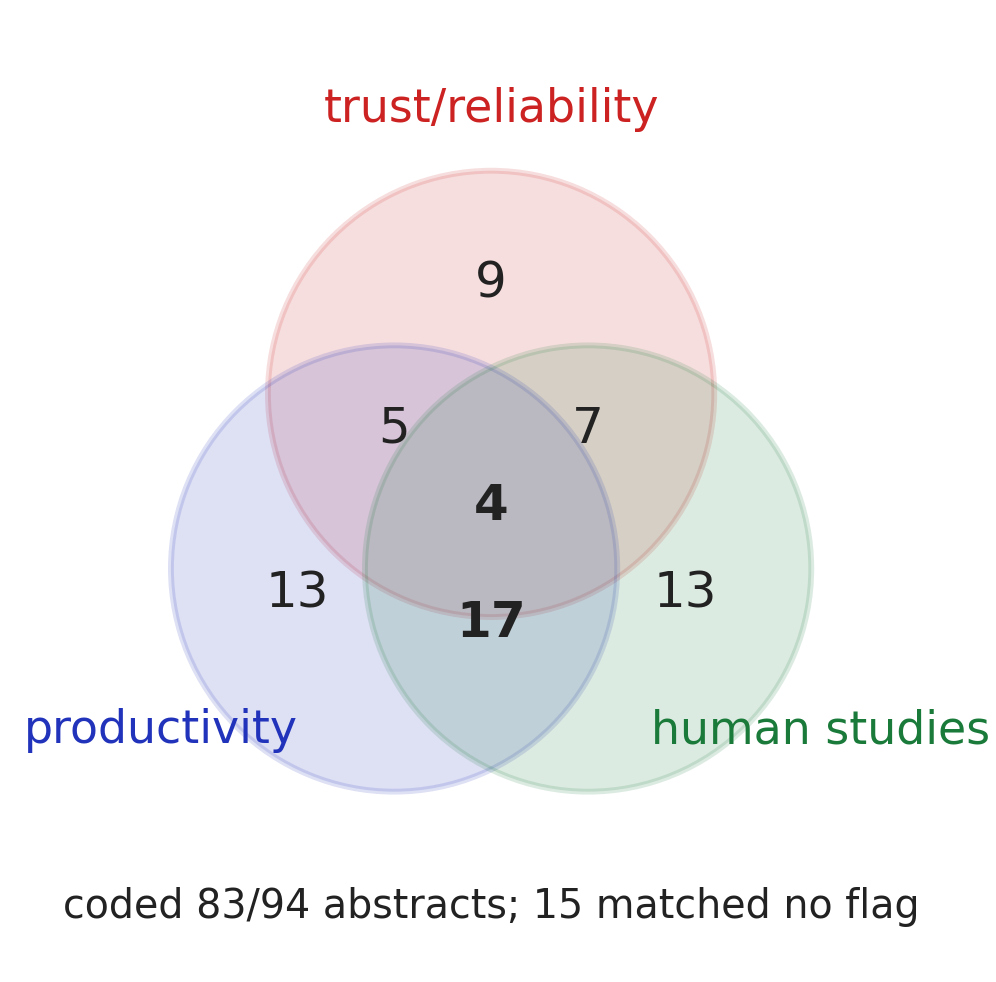
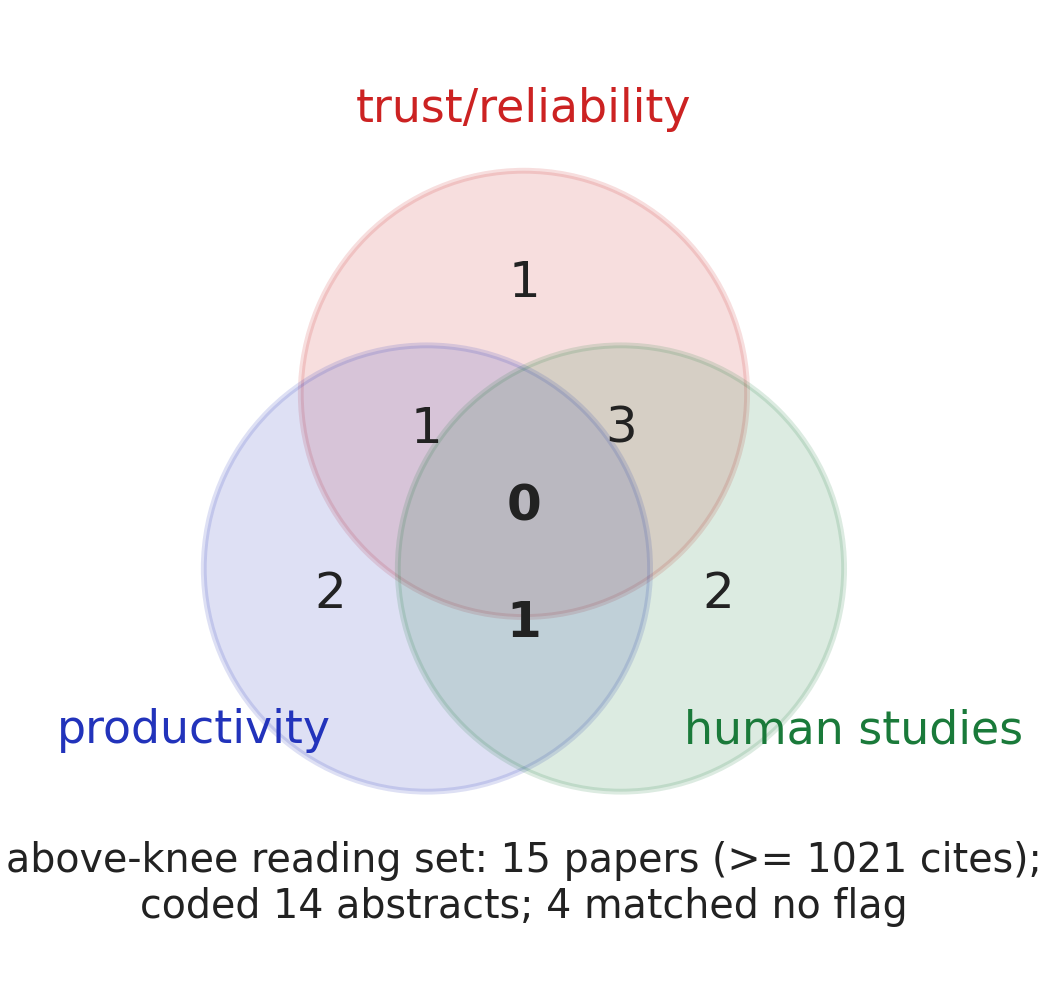
lit0: knee construction drawn, venn recut to 15-paper reading set
Dotted min-max chord + perpendicular drop show how the knee is
found. Second knee inside the 94 keeps 15 papers; coded venn has
an empty centre (no paper does trust+productivity+human). Field
notes added: 41% pdf download rate, scholar closed vs
openalex/s2/arxiv open, abstract coding misses half the flags,
zero own papers in the set. Box gains the own-papers rule.

diff --git a/sec0/lit.tex b/sec0/lit.tex
@@ -19,7 +19,8 @@ that curve (the point farthest from the first-to-last chord);
 backward from the reading set for the classics, and forward from the
 seeds for the newest work; (5)~the download rate is a finding: report
 it, never silently drop missing papers.
-Then code every abstract, and hunt for subsets and their overlaps.}}
+Then code every abstract; hunt for subsets and their overlaps; and
+list which of the team's own papers already sit inside the set.}}
 \caption{The prompt that runs the literature review
 (from the rite engine's search rules, github.com/timm/rite).}
 \label{fig:prompt}
@@ -32,6 +33,9 @@ Then code every abstract, and hunt for subsets and their overlaps.}}
 citations or more.
 Right: the two wings of the crossed area as separate queries, 400
 papers each; their 94-paper overlap is the candidate reading set.
+On the left, the dotted line joins the most- to the least-cited paper;
+the dashed drop marks the point farthest from that line, i.e. the
+knee.
 Regenerate via {\em litfig.py}.}
 \label{fig:lit}
 \end{figure}
@@ -52,30 +56,38 @@ only after the machine has shrunk four hundred papers to dozens.
 \begin{figure}[t]
 \includegraphics[width=0.85\linewidth]{fig/lit2}
 \centering
-\caption{Inside the 94: abstracts coded against three
-topic flags.
-The richest cell (17 papers) studies productivity with human methods
-but never questions trust; the core (4) does all three.
+\caption{The reading set: a second knee, inside the 94,
+keeps 15 papers, coded here against three topic flags.
+No paper occupies all three circles.
 Regenerate via {\em litfig.py}.}
 \label{fig:lit2}
 \end{figure}
 
-The pipeline then ran its remaining steps on the 94.
-Backward snowballing collected 12{,}332 distinct references, of which
-198 are cited by three or more of the 94; those are the candidate
-classics.
-Forward snowballing found 16{,}754 works already citing the 94, so
-this crossed area is far from empty.
-Abstracts were retrievable for 83 of 94 papers; per our own rule, that
-download rate is reported, not hidden.
-Coding those abstracts with three topic flags (trust, productivity,
-human-method) yields Figure~\ref{fig:lit2}, and its cells argue for
-us: the largest overlap (17 papers) measures productivity via human
-studies while never questioning trust, and only four papers sit in all
-three circles.
+The pipeline then ran its remaining steps.
+A second knee, this time inside the 94, keeps the 15 papers of 1{,}021
+citations or more; those are what the humans read first.
+Figure~\ref{fig:lit2} codes them with three topic flags (trust,
+productivity, human-method) and its cells argue for us: no paper
+occupies all three circles, and four match no flag at all (generic AI
+reports that fuzzy search let in).
 Hence a hole: trustworthy productivity, studied with human methods, is
-nearly unoccupied.
-Fifteen coded papers matched no flag, which is also a finding: a
-vocabulary, like a draft, needs iteration.
-\note{timm}{these three flags are paper0-local; a full run would fork
+unoccupied at the top of this literature.
+Around that core, backward snowballing collected 12{,}332 distinct
+references (198 cited by three or more of the 94: the candidate
+classics), and forward snowballing found 16{,}754 works already citing
+the 94, so the area is far from empty.
+\note{timm}{the three flags are paper0-local; a full run would fork
 its own workdir and flags.py, per the engine rules}
+
+The process itself yielded findings worth recording.
+Full texts are scarce: in this workdir's companion pipeline run, only
+22 of 54 chased PDFs (41\%) could be downloaded; abstracts come easier
+(here, 83 of 94, or 88\%).
+Google Scholar is closed to scripts; OpenAlex, Semantic Scholar, and
+arXiv answer machine queries gladly, so the pipeline builds only on
+the willing.
+An earlier full-text pass showed abstract-only coding missing about
+half the flags; hence full text is coded above the knee.
+Finally, none of this paper's authors appears anywhere in the 94: the
+area chosen by our strengths is territory none of us has published in,
+which is either a warning or an invitation.

diff --git a/litfig.py b/litfig.py
@@ -63,13 +63,19 @@ fig, (ax1, ax2) = plt.subplots(1, 2, figsize=(8, 3.4))
 fig.patch.set_facecolor(BG)
 
 ax1.plot(range(1, n + 1), cites, color=INK, lw=1.4)
-ax1.set_yscale("log")
-ax1.axvline(knee + 1, color=RED, ls="--", lw=1.2)
+ax1.plot([1, n], [c0, cn], color=INK, ls=":", lw=1.0)
+# perpendicular from chord to knee, in normalized space
+u, v = knee / (n - 1), (cites[knee] - cn) / (c0 - cn)
+t = (u + v) / 2  # foot of perpendicular on chord v = 1 - u
+fx, fy = 1 + t * (n - 1), cn + (1 - t) * (c0 - cn)
+ax1.plot([knee + 1, fx], [cites[knee], fy], color=RED, ls="--",
+         lw=1.2)
+ax1.plot([knee + 1], [cites[knee]], "o", color=RED, ms=5)
 ax1.annotate("knee: %d papers\n(>= %d cites)" % (knee + 1, cites[knee]),
-             xy=(knee + 1, cites[knee]), xytext=(knee + 30, cites[5]),
-             fontsize=10, color=RED)
+             xy=(knee + 1, cites[knee]),
+             xytext=(knee + 60, c0 * 0.45), fontsize=10, color=RED)
 ax1.set_xlabel("papers, sorted by citations", fontsize=10)
-ax1.set_ylabel("citations (log)", fontsize=10)
+ax1.set_ylabel("citations", fontsize=10)
 ax1.tick_params(labelsize=9)
 for s in ("top", "right"):
     ax1.spines[s].set_visible(False)
@@ -102,7 +108,7 @@ print("wrote fig/lit.png; knee %d at %d cites; overlap %d" %
       (knee + 1, cites[knee], both))
 
 # ---- second figure: inside the 94 (fig/lit2.png) ----
-d2 = json.load(open("tmp/lit2_data.json"))
+d2 = json.load(open("tmp/lit3_data.json"))
 R = d2["regions"]
 fig2, ax = plt.subplots(figsize=(4.4, 4.2))
 fig2.patch.set_facecolor(BG)
@@ -124,8 +130,9 @@ for (x, y), k in (((0.50, 0.70), "Tonly"), ((0.30, 0.38), "Ponly"),
     ax.text(x, y, str(R[k]), fontsize=12, ha="center", color=INK,
             fontweight="bold" if k in ("PH", "TPH") else "normal")
 ax.text(0.5, 0.06,
-        "coded %d/%d abstracts; %d matched no flag" %
-        (d2["n_abs"], d2["n"], R["none"]),
+        "above-knee reading set: %d papers (>= %d cites);\n"
+        "coded %d abstracts; %d matched no flag" %
+        (d2["n"], d2["kneecites"], d2["n_abs"], R["none"]),
         fontsize=9.5, ha="center", color=INK)
 ax.set_xlim(0, 1)
 ax.set_ylim(0, 1)
